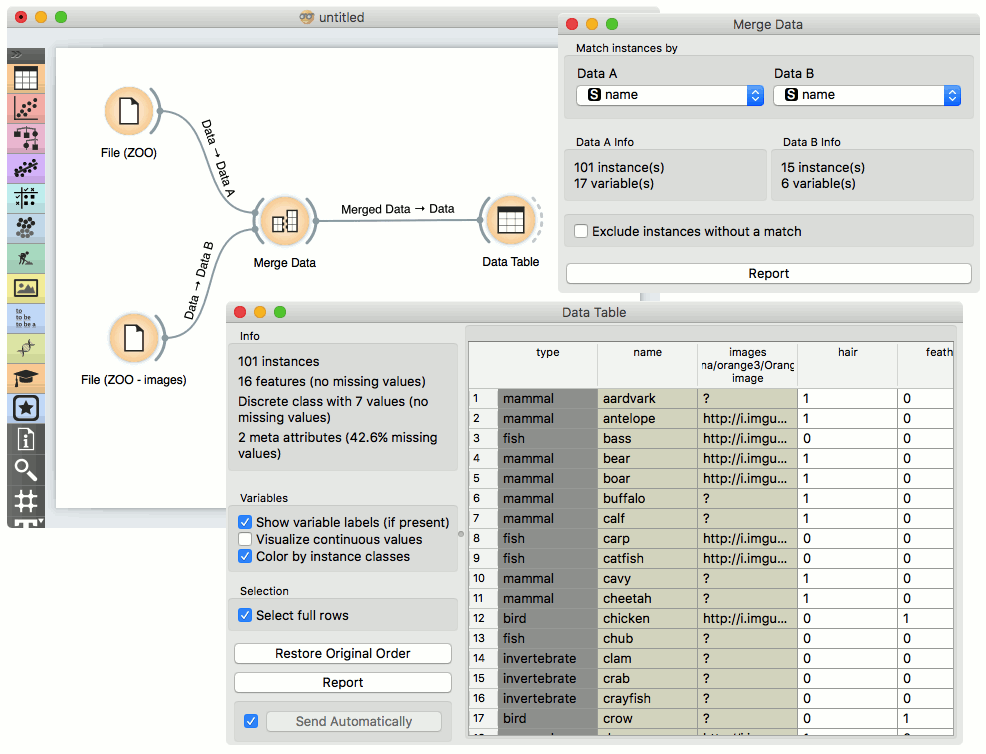
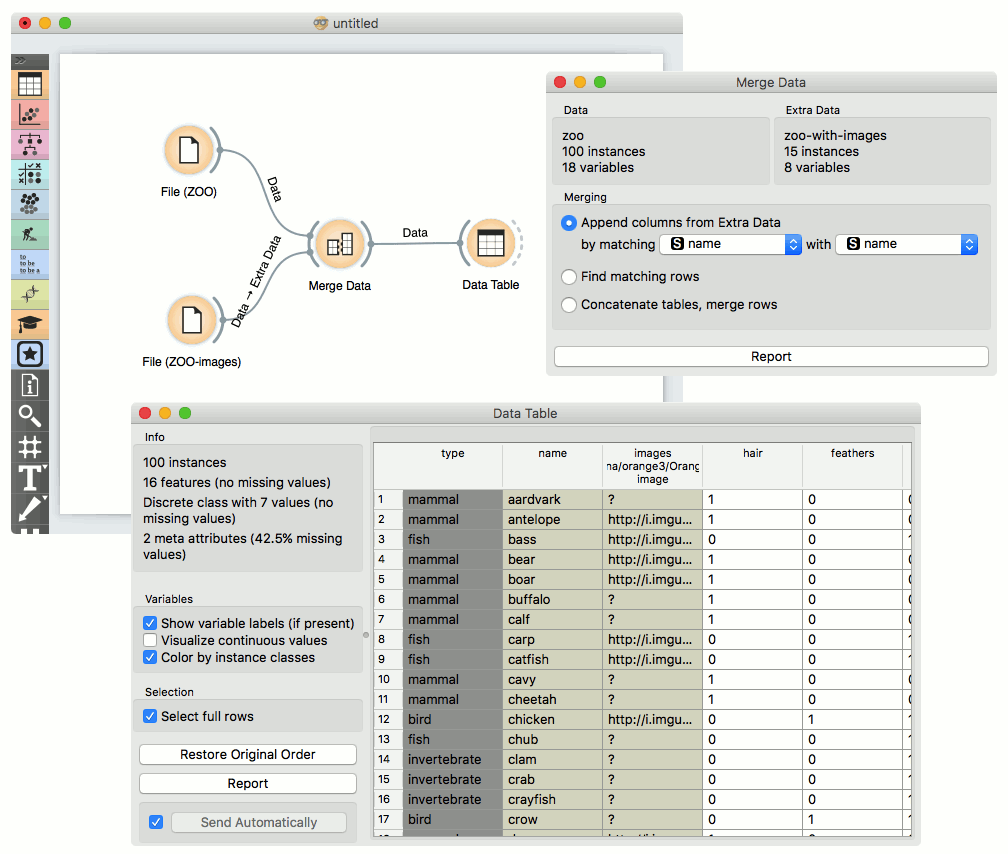
OWMergeData: Update documentation

diff --git a/doc/visual-programming/source/widgets/data/mergedata.rst b/doc/visual-programming/source/widgets/data/mergedata.rst
@@ -10,19 +10,19 @@ Signals
 
 **Inputs**:
 
--  **Data A**
+-  **Data**
 
    Attribute-valued data set.
 
--  **Data B**
+-  **Extra Data**
 
    Attribute-valued data set.
 
 **Outputs**:
 
--  **Merged Data**
+-  **Data**
 
-   Instances from input data A to which attributes from input data B are
+   Instances from input data to which attributes from input extra data are
    added.
 
 Description
@@ -30,28 +30,31 @@ Description
 
 The **Merge Data** widget is used to horizontally merge two data sets, based
 on values of selected attributes. In the input, two data sets are
-required, A and B. The widget allows selection of an attribute from each
+required, data and extra data. The widget allows selection of an attribute from each
 domain, which will be used to perform the merging. The widget produces
-one output. It corresponds to instances from the input data A
-to which attributes from B are appended, and B+A to instances from B to
-which attributes from A are appended.
+one output. It corresponds to instances from the input data
+to which attributes from input extra data are appended.
 
 Merging is done by values of selected (merging) attributes. First,
-the value of the merging attribute from A is taken and instances from B
-are searched for matching values. If more than a single instance from B
-is found, the first one is taken and horizontally merged with the
-instance from A. If no instance from B matches the criterion, unknown
-values are assigned to the appended attributes.
+the value of the merging attribute from Data is taken and instances from Extra
+Data are searched for matching values. If more than a single instance from Extra
+Data was to be found, the attribute is removed from available merging attributes.
 
 .. figure:: images/MergeData-stamped.png
 
-1. List of comparable attributes from Data A
-2. List of comparable attributes from Data B
-3. Information on Data A
-4. Information on Data B
-5. If checked, instances from B without the match are excluded form the output.
-   If not checked, instances from B without the match are assigned
-   unknown values to the appended attributes.
+1. Information on Data
+2. Information on Extra Data
+3. Merging type.
+   **Append columns from Extra Data** outputs all instances from
+   Data appended by matching instances from Extra Data. When no match is found,
+   unknown values are appended.
+   **Find matching rows** outputs similar as above,
+   except hen no match is found, instances are excluded.
+   **Concatenate tables, merge rows** outputs all instances from both inputs,
+   even though the match may not be found. In that case unknown values are
+   assigned.
+4. List of comparable attributes from Data
+5. List of comparable attributes from Extra Data
 6. Produce a report.
 
 Example
@@ -63,8 +66,8 @@ below, we wanted to merge the **zoo.tab** file containing only factual
 data with :download:`zoo-with-images.tab <../data/zoo-with-images.tab>`
 containing images. Both files share a common string attribute *names*. Now, we
 create a workflow connecting the two files. The *zoo.tab* data is
-connected to **Data A** input of the **Merge Data** widget, and the
-*zoo-with-images.tab* data to the **Data B** input. Outputs of the
+connected to **Data** input of the **Merge Data** widget, and the
+*zoo-with-images.tab* data to the **Extra Data** input. Outputs of the
 **Merge Data** widget is then connected to the :doc:`Data Table <../data/datatable>` widget.
 In the latter, the **Merged Data** channels are shown, where image attributes
 are added to the original data.
@@ -75,6 +78,11 @@ The case where we want to include all instances in the output, even those
 where no match by attribute *names* was found, is shown in the following workflow.
 
 .. figure:: images/MergeData-Example2.png
+
+The third type of merging is shown in the next workflow. The output consist of
+both inputs, with unknown values assigned where no match was found.
+
+.. figure:: images/MergeData-Example3.png
 
 Hint
 ----
